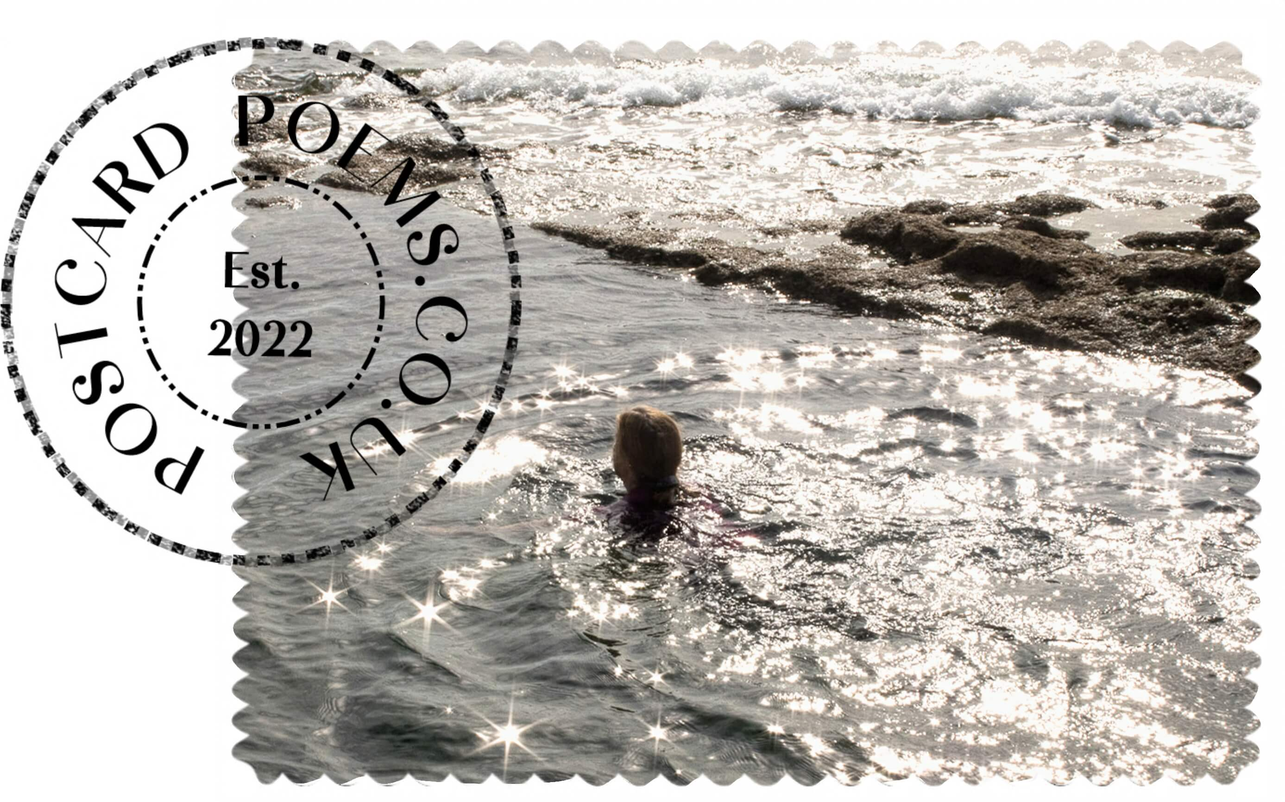
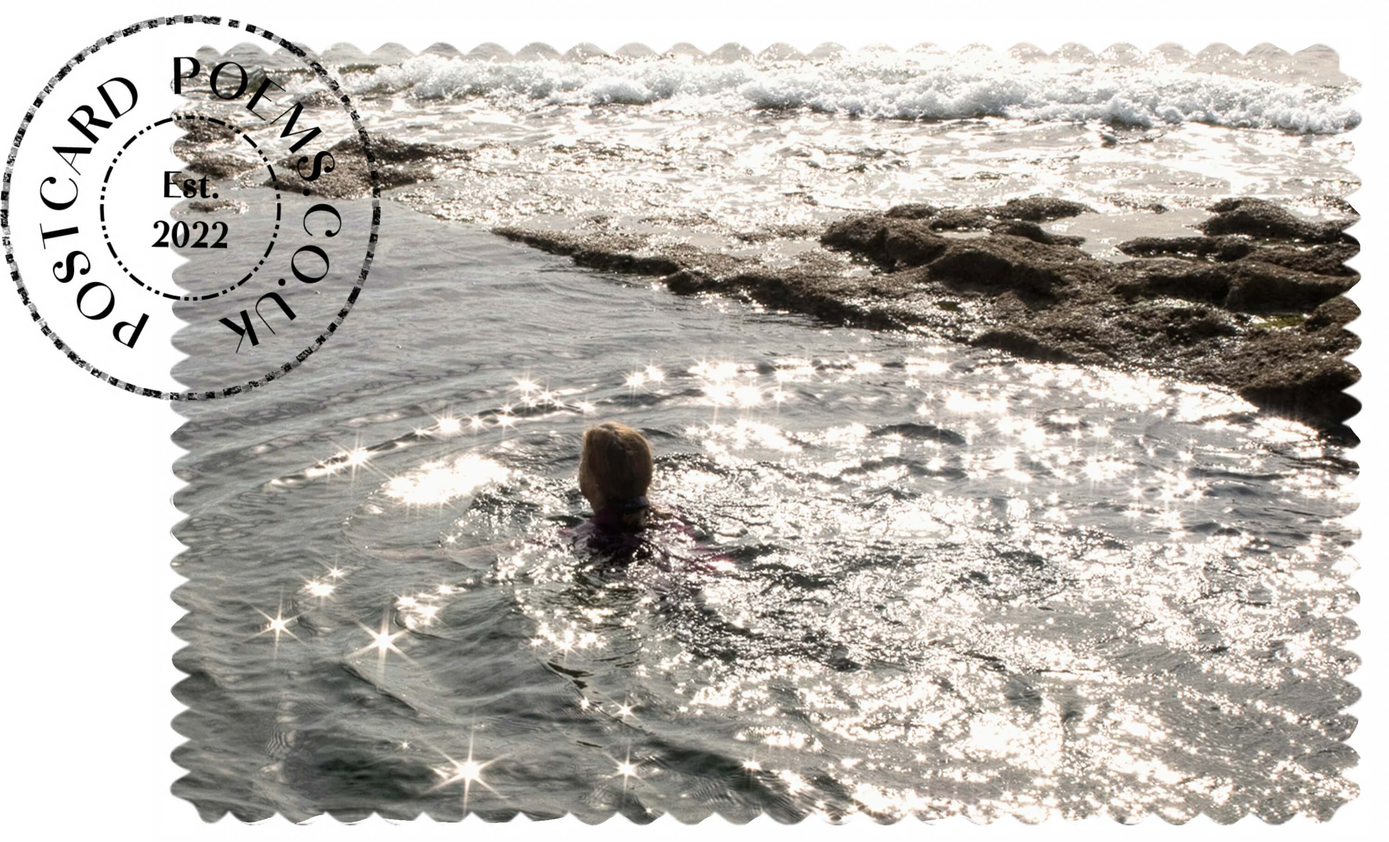
Update Blog “swimming-with-stars”

diff --git a/content/posts/swimming-with-stars.md b/content/posts/swimming-with-stars.md
@@ -3,7 +3,7 @@ title: Swimming with Stars
 description: Chapmans Pool
 collection: Dorset Views
 aspect: landscape
-image: /img/swimming-with-stars-dancing-ledge7-6229-studio.jpeg
+image: /img/swimming-with-stars-dancing-ledge-main1.jpg
 metaImage: /img/face.jpg
 alt: Chapman's pool, a tidal pool at Dancing Ledge Dorset, a lone swimmer,
   starbursts of sunlight dance on the water
@@ -30,7 +30,7 @@ address: |-
   Chapmans Pool
   Dancing Ledge
   Dorset
-stamp: /img/swimming-with-stars-stamp-tiny.jpg
+stamp: /img/swimming-with-stars-stamp2-tiny.jpg
 author: Caroline Whitehouse
 date: 2023-01-08T08:00:46.527Z
 ---
